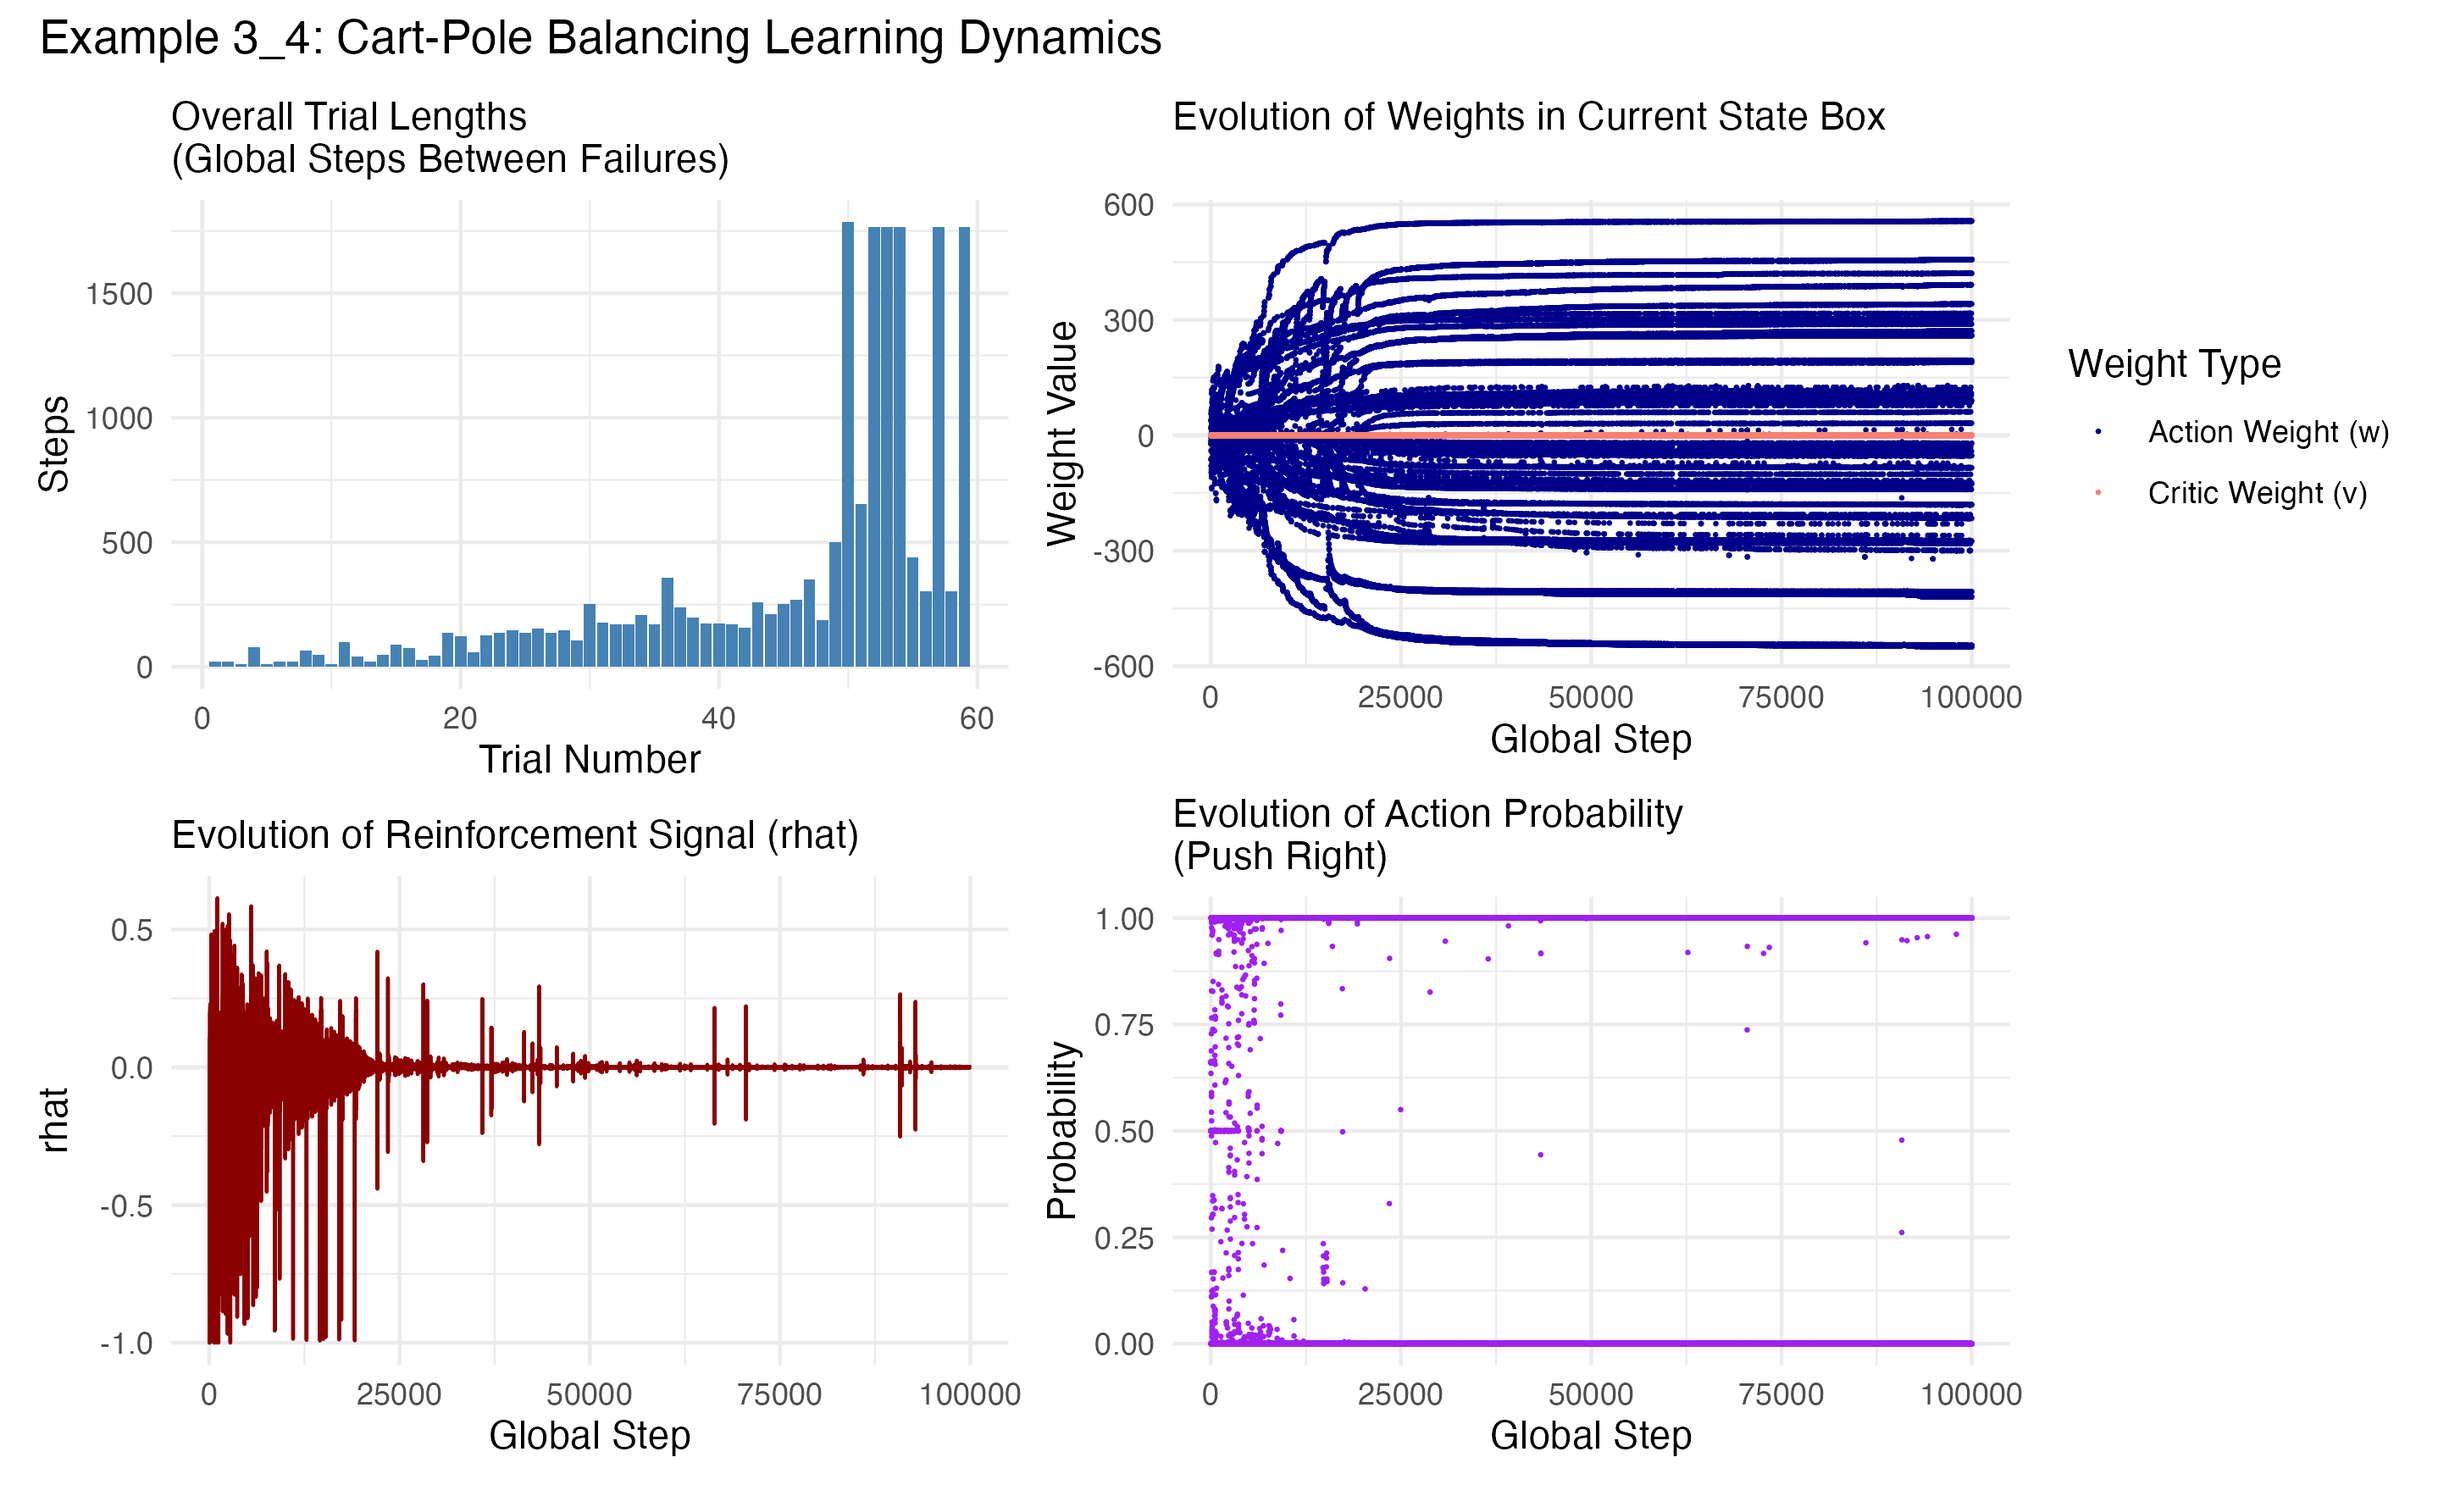
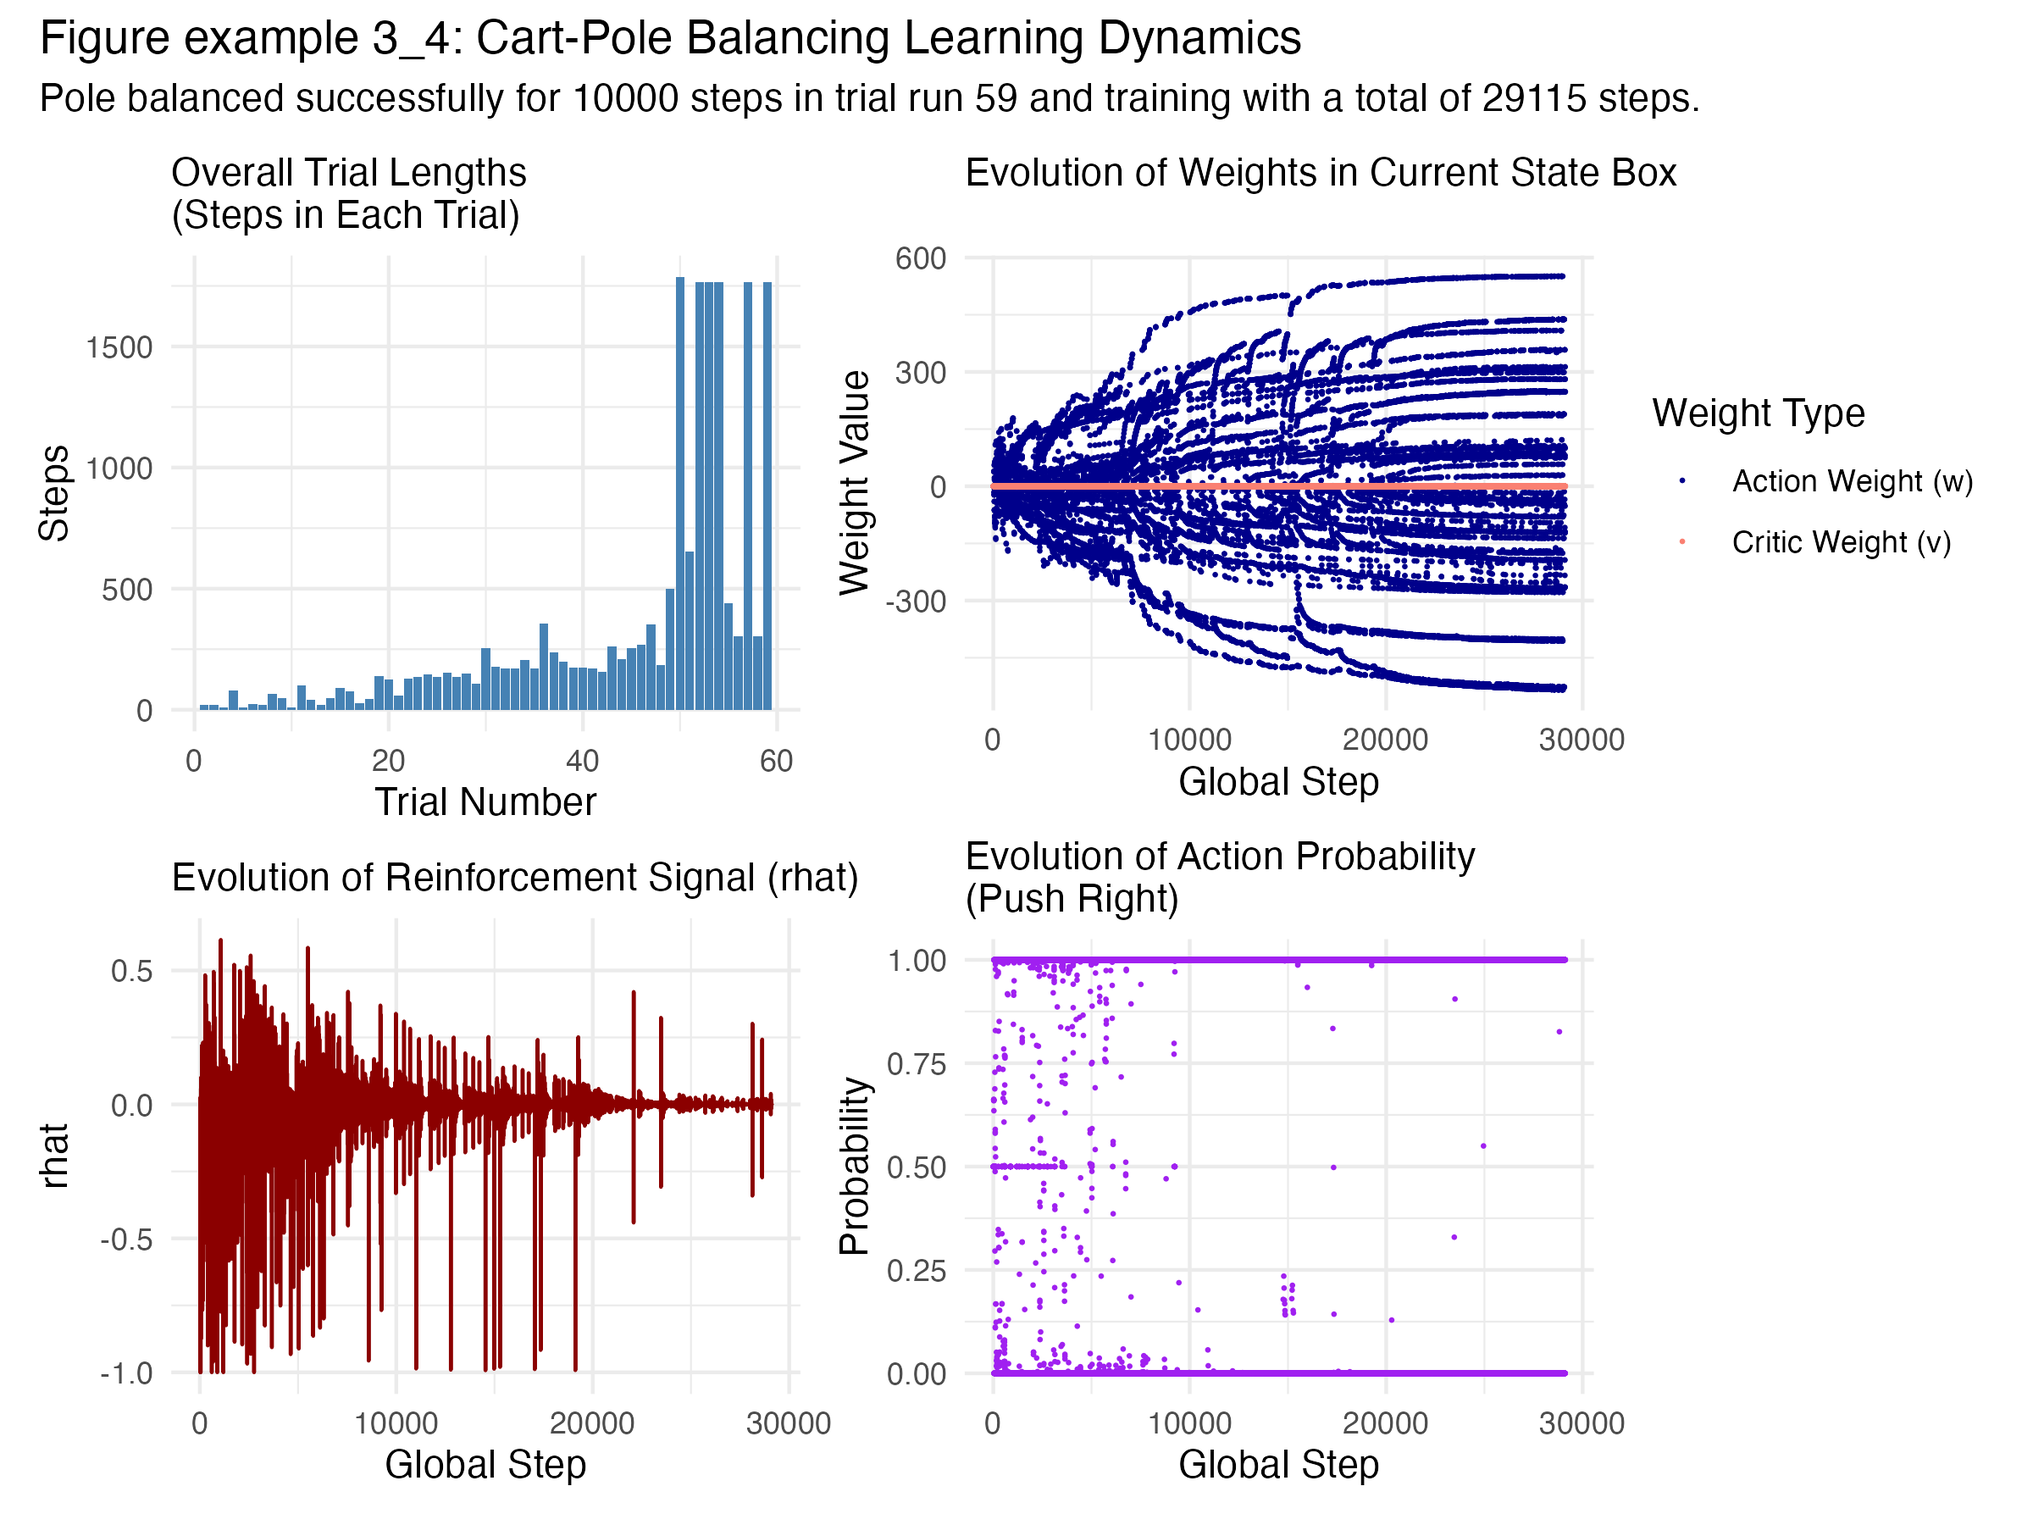
fig 3_4 exmaple pole balancer

diff --git a/README.md b/README.md
@@ -17,9 +17,11 @@ My R implementation of [*Reinforcement Learning: An Introduction (2nd Edition)*]
 6. [Figure 2.6: A parameter study of the various bandit algorithms](https://raw.githubusercontent.com/DylanLawless/R-reinforcement-learning-an-introduction/main/figures/fig_2_6.png)
 
 ### Chapter 3
-0. [pole](null)
+1. [Figure example 3.4 Cart pole balance metrics](https://raw.githubusercontent.com/DylanLawless/R-reinforcement-learning-an-introduction/main/figures/fig_ex_3_4.png)
+1. [Figure example 3.4 Cart pole balance final demo static](https://raw.githubusercontent.com/DylanLawless/R-reinforcement-learning-an-introduction/main/figures/fig_ex_3_4_gif_static.png)
+1. [Figure example 3.4 Cart pole balance final demo gif](https://raw.githubusercontent.com/DylanLawless/R-reinforcement-learning-an-introduction/main/figures/fig_ex_3_4_compressed.gif)
 1. [Figure 3.2: Grid example with random policy](https://raw.githubusercontent.com/DylanLawless/R-reinforcement-learning-an-introduction/main/figures/fig_3_2.png)
-2. [Figure 3.5: Optimal solutions to the gridworld example](https://raw.githubusercontent.com/DylanLawless/R-reinforcement-learning-an-introduction/main/figures/fig_3_5.png)
+1. [Figure 3.5: Optimal solutions to the gridworld example](https://raw.githubusercontent.com/DylanLawless/R-reinforcement-learning-an-introduction/main/figures/fig_3_5.png)
 
 ### Chapter 4
 1. [Figure 4.1: Convergence of iterative policy evaluation on a small gridworld](https://raw.githubusercontent.com/DylanLawless/R-reinforcement-learning-an-introduction/main/figures/fig_4_1.png)
